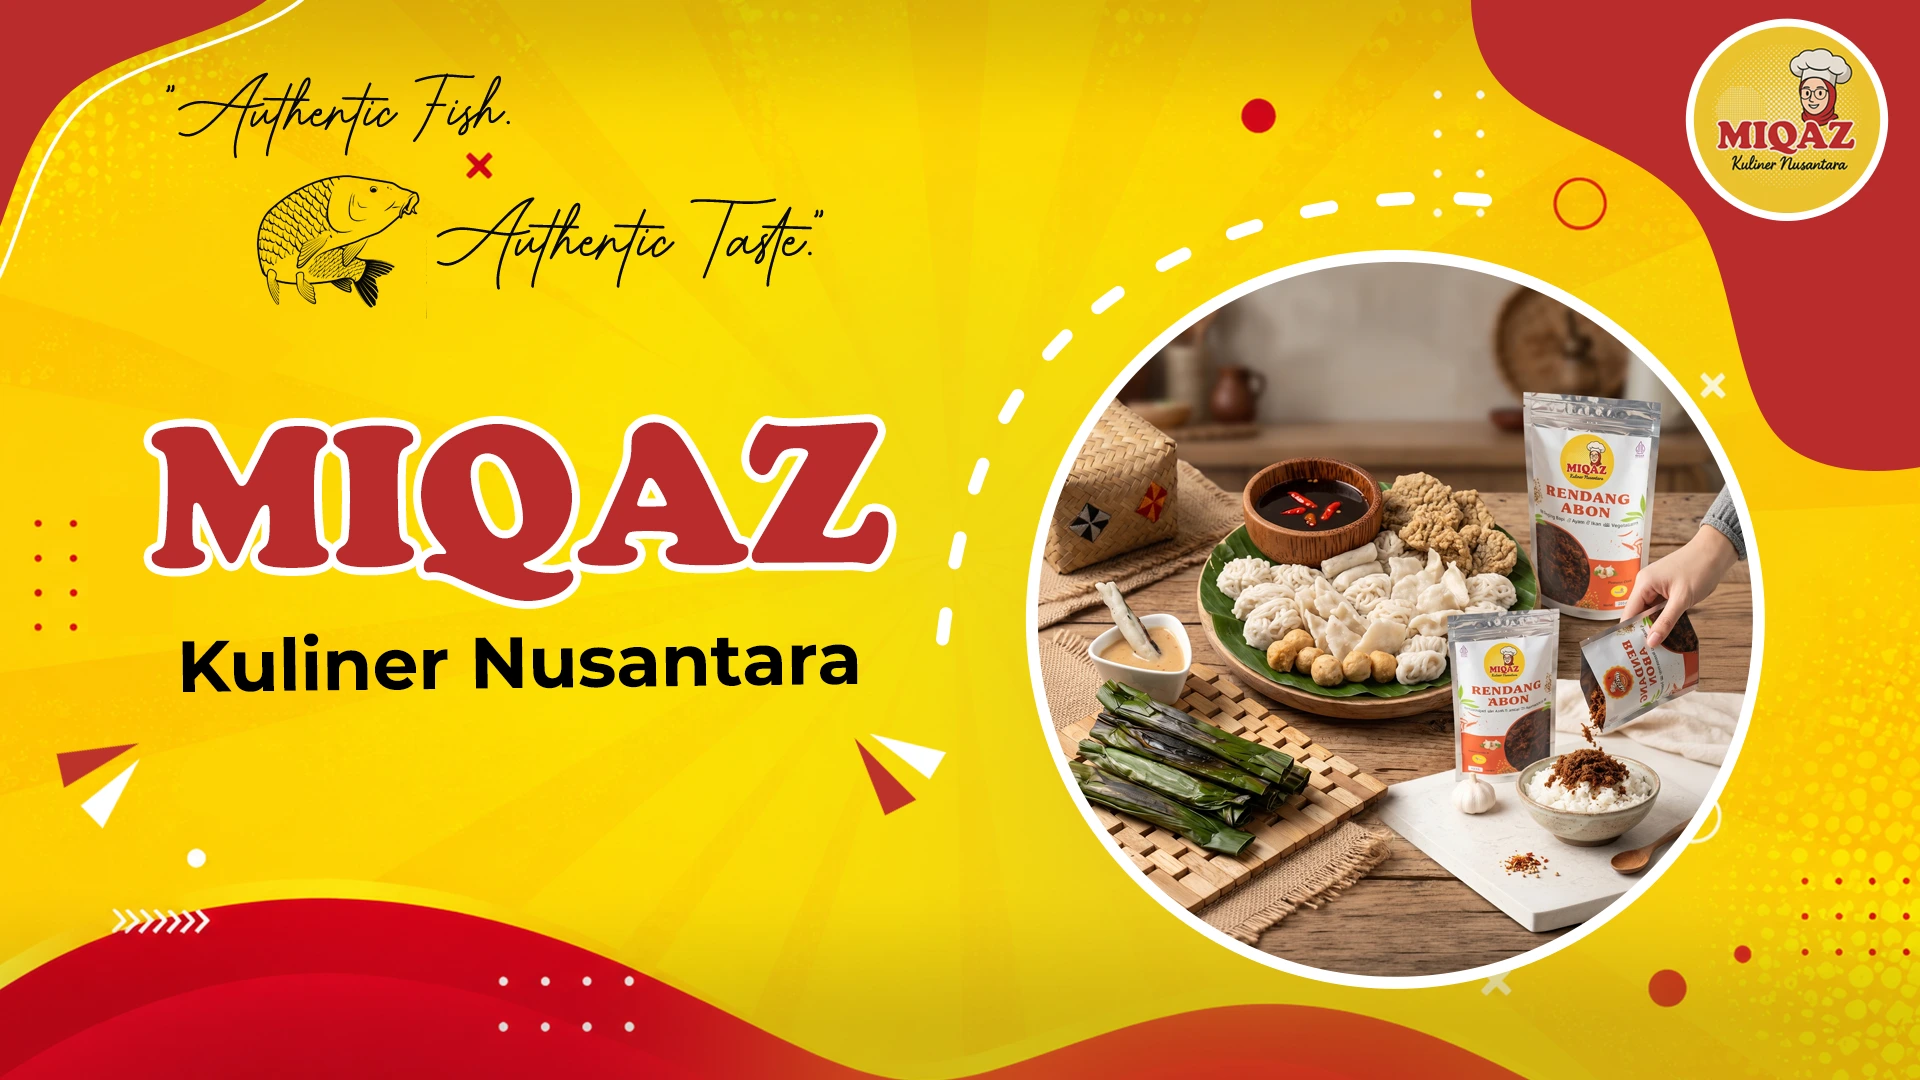
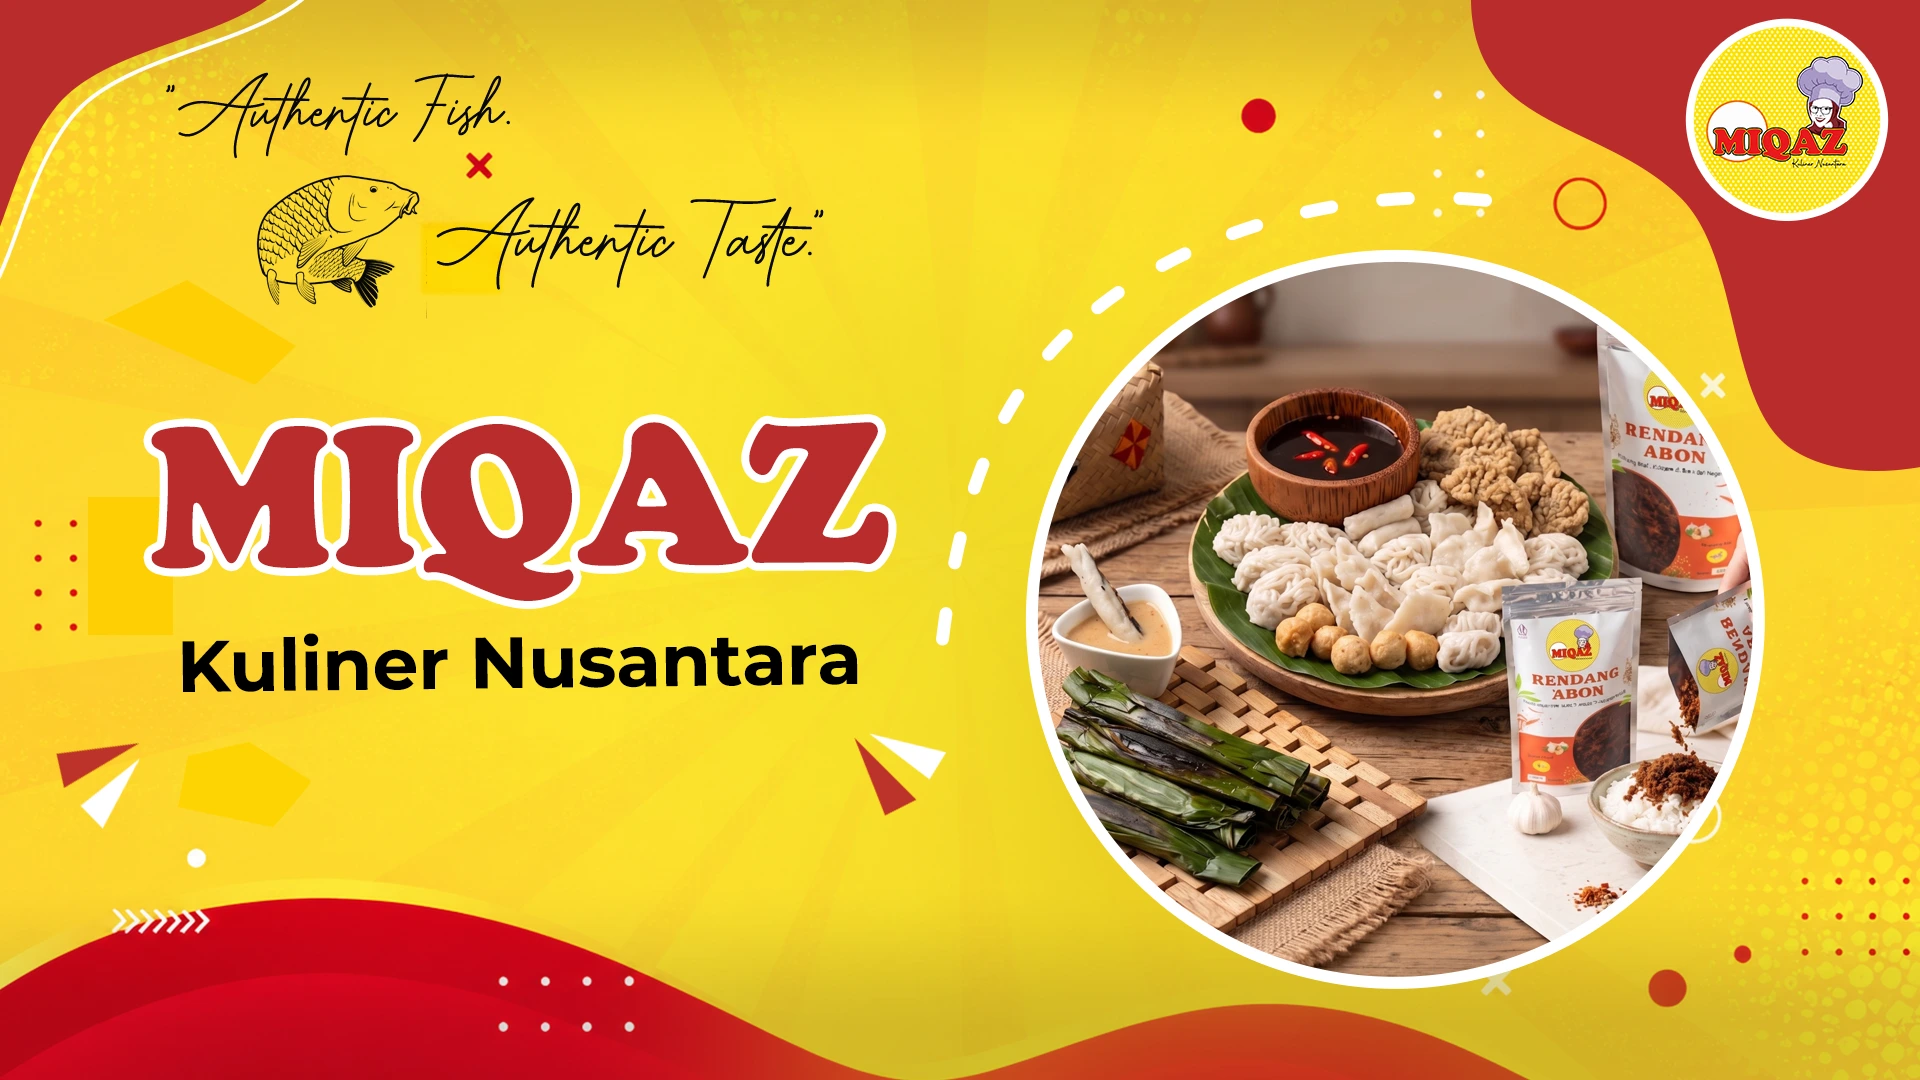
feat: update core landing page components including color brand, hero, gallery, testimonials, and footer layout

diff --git a/app/globals.css b/app/globals.css
@@ -12,16 +12,14 @@
   --font-heading: var(--font-heading);
 
   /* Brand colors */
-  --color-cream: #EAC12C;
+  --color-cream: #FDE62E;
   --color-warm-beige: #F5EDE3;
-  --color-yellow-brand: #EAC12C;
-  --color-red-brand: #BA2C2B;
+  --color-yellow-brand: #FDE62E;
+  --color-yellow-brand-old: #EAC02B;
+  --color-red-brand: #E91B1A;
   --color-dark-green: #1B3A2D;
   --color-dark-red: #531313;
   --color-forest: #2D5E3A;
-  --color-gold: #EAC12C;
-  --color-gold-light: #D4B968;
-  --color-gold-dark: #B08E30;
 
   /* shadcn semantic tokens */
   --color-sidebar-ring: var(--sidebar-ring);
@@ -75,15 +73,15 @@
   --secondary-foreground: #1B3A2D;
   --muted: #F5EDE3;
   --muted-foreground: #5A6E60;
-  --accent: #EAC12C;
+  --accent: #FDE62E;
   --accent-foreground: #1B3A2D;
   --destructive: oklch(0.577 0.245 27.325);
   --border: #E8DFD3;
   --input: #E8DFD3;
-  --ring: #EAC12C;
+  --ring: #FDE62E;
   --chart-1: #1B3A2D;
   --chart-2: #2D5E3A;
-  --chart-3: #EAC12C;
+  --chart-3: #FDE62E;
   --chart-4: #D4B968;
   --chart-5: #F5EDE3;
   --radius: 0.5rem;
@@ -94,7 +92,7 @@
   --sidebar-accent: #F5EDE3;
   --sidebar-accent-foreground: #1B3A2D;
   --sidebar-border: #E8DFD3;
-  --sidebar-ring: #EAC12C;
+  --sidebar-ring: #FDE62E;
 
   --font-heading: var(--font-playfair);
 }

diff --git a/app/layout.tsx b/app/layout.tsx
@@ -27,6 +27,17 @@ export const metadata: Metadata = {
   description:
     "Olahan Ikan Premium dengan Resep Autentik Khas Nusantara",
 
+  icons: {
+    icon: [
+      { url: "/favicon.ico" },
+      { url: "/favicon-32x32.png", sizes: "32x32", type: "image/png" },
+      { url: "/favicon-16x16.png", sizes: "16x16", type: "image/png" },
+    ],
+    apple: "/apple-touch-icon.png",
+  },
+
+  manifest: "/site.webmanifest",
+
   keywords: [
     "pempek premium",
     "otak-otak panggang",

diff --git a/components/about.tsx b/components/about.tsx
@@ -22,7 +22,7 @@ export function About() {
 
           {/* Content */}
           <div>
-            <p className="text-sm font-semibold uppercase tracking-widest text-gold">
+            <p className="text-sm font-semibold uppercase tracking-widest text-yellow-brand-old">
               Our Story
             </p>
             <h2
@@ -43,19 +43,19 @@ export function About() {
             {/* Stats */}
             <div className="mt-10 grid grid-cols-3 gap-6 border-t border-border pt-10">
               <div>
-                <p className="font-heading text-3xl font-bold text-gold">
+                <p className="font-heading text-3xl font-bold text-yellow-brand-old">
                   100%
                 </p>
                 <p className="mt-1 text-sm text-dark-green/60">Fresh Fish</p>
               </div>
               <div>
-                <p className="font-heading text-3xl font-bold text-gold">
+                <p className="font-heading text-3xl font-bold text-yellow-brand-old">
                   Halal
                 </p>
                 <p className="mt-1 text-sm text-dark-green/60">Certified</p>
               </div>
               <div>
-                <p className="font-heading text-3xl font-bold text-gold">
+                <p className="font-heading text-3xl font-bold text-yellow-brand-old">
                   3+
                 </p>
                 <p className="mt-1 text-sm text-dark-green/60">

diff --git a/components/final-cta.tsx b/components/final-cta.tsx
@@ -22,7 +22,7 @@ export function FinalCta() {
       </div>
 
       <div className="relative mx-auto max-w-3xl px-6 text-center lg:px-8">
-        <p className="text-sm font-semibold uppercase tracking-widest text-gold">
+        <p className="text-sm font-semibold uppercase tracking-widest text-yellow-brand">
           Siap Menikmati?
         </p>
         <h2
@@ -42,15 +42,12 @@ export function FinalCta() {
             rel="noopener noreferrer"
             className={cn(
               buttonVariants({ size: "lg" }),
-              "inline-flex items-center gap-2 bg-gold px-8 py-3 text-sm font-semibold text-white hover:bg-gold-light"
+              "inline-flex items-center gap-2 bg-yellow-brand-old px-8 py-3 text-sm font-semibold text-white hover:bg-gold-light"
             )}
           >
             <MessageCircle className="size-4" />
             Pesan via WhatsApp
           </a>
-          <p className="text-xs text-white/50">
-            Respon Cepat • Konsultasi Gratis
-          </p>
         </div>
       </div>
     </section>

diff --git a/components/hero.tsx b/components/hero.tsx
@@ -14,11 +14,11 @@ export function Hero() {
         <div className="grid items-center gap-12 lg:grid-cols-2 lg:gap-16">
           {/* Text content */}
           <div className="order-2 lg:order-1">
-            <p className="mb-4 text-sm font-semibold uppercase tracking-widest text-gold">
+            <p className="mb-4 text-sm font-semibold uppercase tracking-widest text-yellow-brand-old">
               Mengenal Lebih Dekat Miqaz
             </p>
             <h1 className="font-heading text-4xl font-bold leading-tight tracking-tight text-dark-green md:text-5xl lg:text-6xl">
-              Authentic <span className="text-gold">Fish</span> Authentic <span className="text-gold">Taste</span>{" "}
+              Authentic <span className="text-yellow-brand-old">Fish</span> Authentic <span className="text-yellow-brand-old">Taste</span>{" "}
               
             </h1>
             <p className="mt-6 max-w-lg text-base leading-relaxed text-dark-green/70 md:text-lg">
@@ -31,7 +31,7 @@ export function Hero() {
                 href="#products"
                 className={cn(
                   buttonVariants({ size: "lg" }),
-                  "inline-flex items-center gap-2 bg-gold px-8 py-3 text-sm font-semibold text-white hover:bg-gold-dark"
+                  "inline-flex items-center gap-2 bg-yellow-brand-old px-8 py-3 text-sm font-semibold text-white hover:bg-yellow-brand-old"
                 )}
               >
                 Jelajahi Produk

diff --git a/components/gallery.tsx b/components/gallery.tsx
@@ -67,10 +67,10 @@ export function Gallery() {
             id="gallery-heading"
             className="mt-3 font-heading text-3xl font-bold tracking-tight text-dark-green md:text-4xl"
           >
-            Momen Perjalanan Miqaz
+            Momen Perjalanan MIQAZ
           </h2>
           <p className="mt-4 text-base leading-relaxed text-dark-green/60">
-            Dari dapur produksi hingga berbagai kegiatan dan kolaborasi, setiap momen mencerminkan komitmen Miqaz dalam menghadirkan produk berkualitas dan membangun kepercayaan pelanggan.
+            Dari dapur produksi hingga berbagai kegiatan dan kolaborasi, setiap momen mencerminkan komitmen MIQAZ dalam menghadirkan produk berkualitas dan membangun kepercayaan pelanggan.
           </p>
         </div>
 

diff --git a/components/video-testimonials.tsx b/components/video-testimonials.tsx
@@ -85,8 +85,8 @@ export function VideoTestimonials() {
               onClick={() => setOpenVideoId(video.id)}
               className="group relative flex flex-col overflow-hidden rounded-2xl border border-dark-green/10 bg-white shadow-sm transition-all duration-300 hover:shadow-xl hover:-translate-y-1 focus-visible:outline-none focus-visible:ring-2 focus-visible:ring-gold focus-visible:ring-offset-2"
             >
-              {/* Thumbnail */}
-              <div className="relative aspect-9/16 w-full overflow-hidden bg-dark-green/5">
+              {/* Thumbnail */} 
+              <div className="relative aspect-5/4 w-full overflow-hidden bg-dark-green/5">
                 <Image
                   src={getThumbnailUrl(video.id)}
                   alt={`Thumbnail video review: ${video.title}`}

diff --git a/components/why-choose.tsx b/components/why-choose.tsx
@@ -36,8 +36,8 @@ const features: FeatureCardProps[] = [
 
 function FeatureCard({ icon: Icon, title, description }: FeatureCardProps) {
   return (
-    <article className="group rounded-xl border border-transparent bg-white p-8 transition-all duration-300 hover:border-gold/20 hover:shadow-lg hover:shadow-gold/5">
-      <div className="mb-5 flex size-12 items-center justify-center rounded-lg bg-gold/10 text-gold transition-colors group-hover:bg-gold group-hover:text-white">
+    <article className="group rounded-xl border border-transparent bg-white p-8 transition-all duration-300 hover:border-yellow-brand-old/20 hover:shadow-lg hover:shadow-yellow-brand-old/5">
+      <div className="mb-5 flex size-12 items-center justify-center rounded-lg bg-yellow-brand-old/10 text-yellow-brand-old transition-colors group-hover:bg-yellow-brand-old group-hover:text-white">
         <Icon className="size-6" aria-hidden="true" />
       </div>
       <h3 className="font-heading text-lg font-semibold text-dark-green">

diff --git a/components/featured-products.tsx b/components/featured-products.tsx
@@ -77,7 +77,7 @@ export function FeaturedProducts() {
       <div className="mx-auto max-w-7xl px-6 lg:px-8">
         {/* Section header */}
         <div className="mx-auto max-w-2xl text-center">
-          <p className="text-sm font-semibold uppercase tracking-widest text-gold">
+          <p className="text-sm font-semibold uppercase tracking-widest text-yellow-brand-old">
             Our Products
           </p>
           <h2